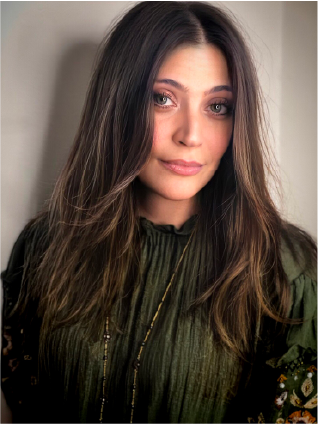
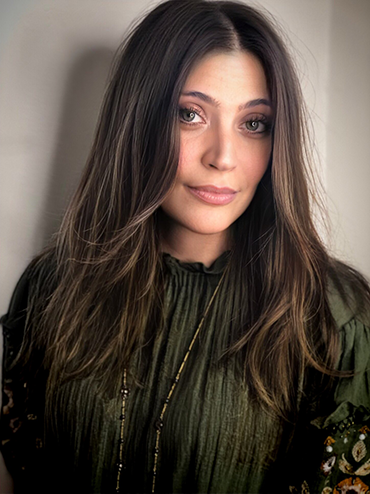
update marissa and samer's headshots

diff --git a/data/people.js b/data/people.js
@@ -95,8 +95,8 @@ export default {
           src: '/images/people/samer-ali@3x.png',
         },
       ],
-      width: 317,
-      height: 1107,
+      width: 370,
+      height: 556,
     },
   },
   'marissa-arciola': {
@@ -178,8 +178,8 @@ export default {
           src: '/images/people/marissa-arciola@3x.png',
         },
       ],
-      width: 317,
-      height: 1107,
+      width: 370,
+      height: 494,
     },
   },
   'fouad-salloum': {
